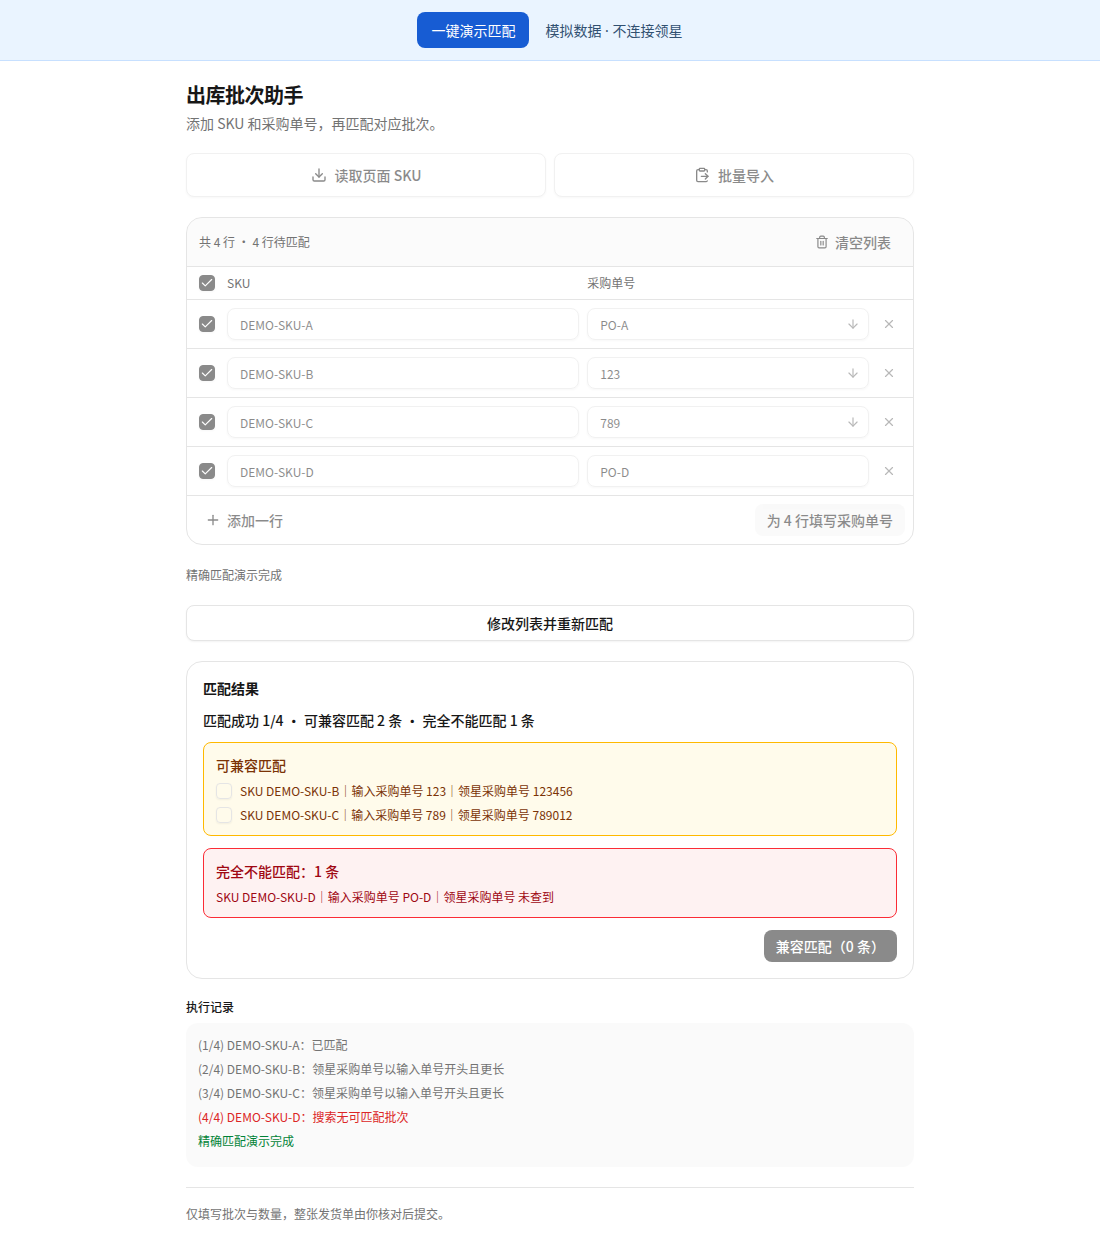
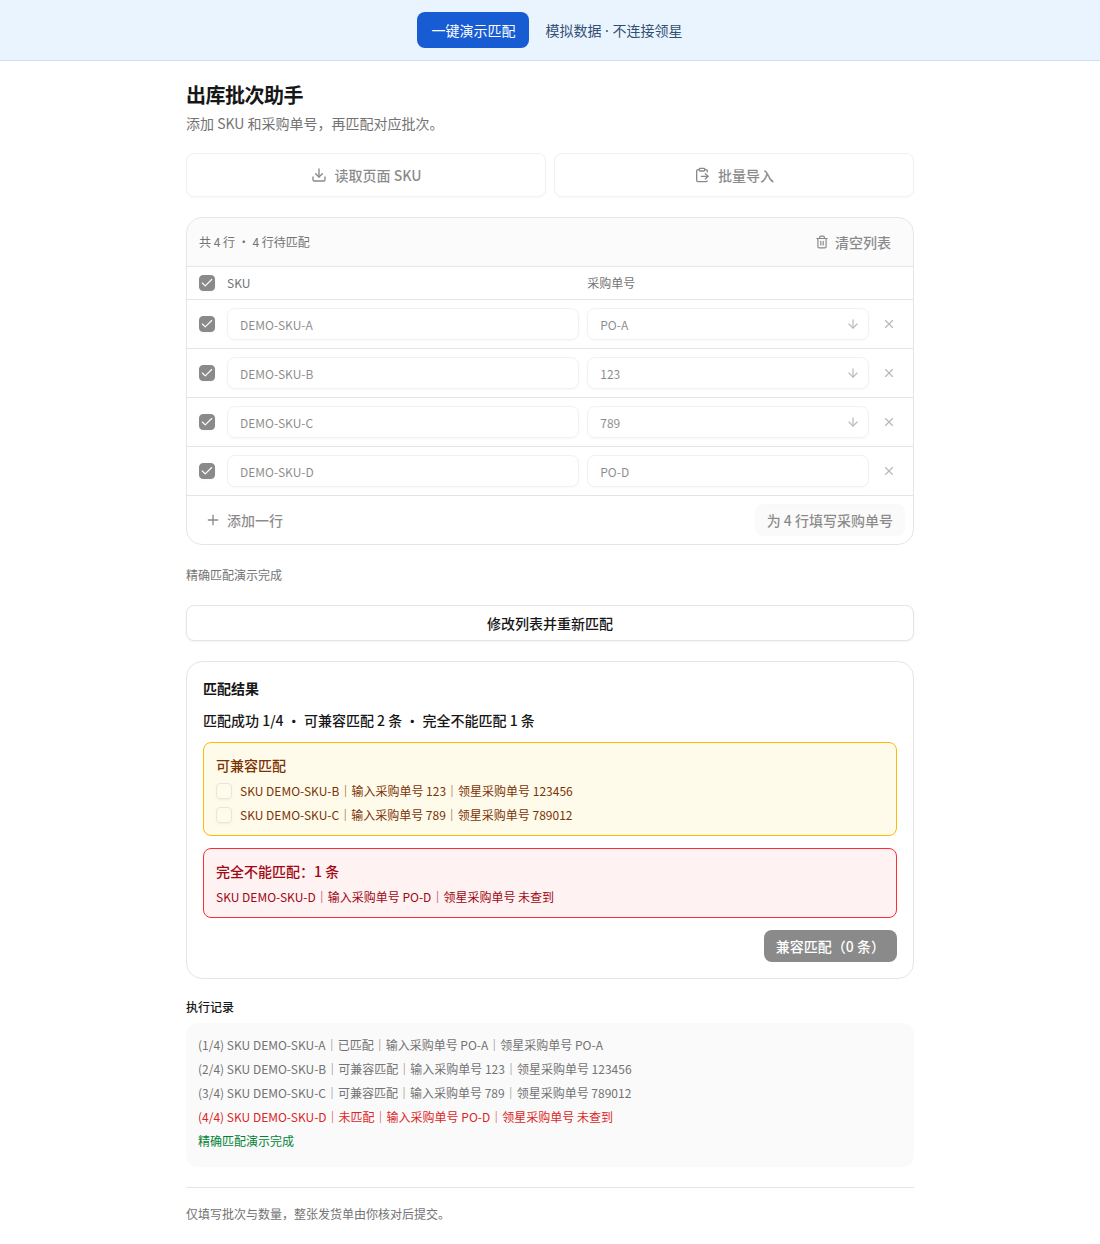
Keep matching progress concise

Changed region(s): [[0.1855, 0.8248, 0.5873, 0.9164]]

diff --git a/content.js b/content.js
@@ -186,7 +186,7 @@
 
   function skipPair({ sku, purchaseOrder }, number, total, reason, actualOrders = [], compatible = false) {
     const status = compatible ? 'compatible' : 'unmatched';
-    send(`(${number}/${total}) ${compatible ? '待兼容匹配' : '未匹配'}：${sku}，输入采购单号 ${purchaseOrder}，页面采购单号 ${actualOrders.join('、') || '未查到'}，${reason}`,
+    send(`(${number}/${total}) SKU ${sku}｜${compatible ? '可兼容匹配' : '未匹配'}｜输入采购单号 ${purchaseOrder}｜领星采购单号 ${actualOrders.join('、') || '未查到'}`,
       compatible ? 'info' : 'error', false, { status, sku, purchaseOrder, actualOrders, reason });
     return { status, sku, purchaseOrder, actualOrders, reason };
   }
@@ -296,17 +296,11 @@
     const unmatchedRows = results.filter(item => item.status === 'unmatched');
     if (failure && index < pairs.length) results.push({ status: 'failed', ...pairs[index], reason: failure.message });
     if (failure) for (const pair of pairs.slice(index + 1)) results.push({ status: 'unprocessed', ...pair, reason: '本轮未处理' });
-    send(`匹配报告：已匹配 ${completed.length} 条，可兼容匹配 ${compatibleRows.length} 条，无法匹配 ${unmatchedRows.length} 条${failure ? '；已暂停' : ''}`);
-    for (const item of results) {
-      if (item.status === 'completed') continue;
-      send(`SKU ${item.sku}｜${item.status === 'compatible' ? '可兼容匹配' : '未匹配'}｜输入采购单号 ${item.purchaseOrder} → 页面采购单号 ${item.actualOrders?.join('、') || '未查到'}｜${item.reason}`,
-        item.status === 'compatible' ? 'info' : 'error');
-    }
     if (failure) {
-      send(`已暂停：${failure.message}。请核对以上匹配报告`, 'error', true,
+      send(`已暂停：${failure.message}`, 'error', true,
         { report: { phase: mode, results, failure: failure.message } });
     } else {
-      send(`本轮结束：已匹配 ${completed.length} 条，可兼容匹配 ${compatibleRows.length} 条，无法匹配 ${unmatchedRows.length} 条${mode === 'exact' && compatibleRows.length ? '；可在报告中点击兼容匹配' : ''}`, 'success', true,
+      send(`本轮结束：已匹配 ${completed.length} 条，可兼容匹配 ${compatibleRows.length} 条，无法匹配 ${unmatchedRows.length} 条`, 'success', true,
         { report: { phase: mode, results, failure: null } });
     }
   }

diff --git a/demo.html b/demo.html
@@ -33,7 +33,10 @@
                 return { ...pair, status: 'compatible', actualOrders: [pair.sku === 'DEMO-SKU-B' ? '123456' : '789012'], reason: '领星采购单号以输入单号开头且更长' };
               return { ...pair, status: 'unmatched', actualOrders: [], reason: '搜索无可匹配批次' };
             });
-            results.forEach((result, index) => announce({ message: `(${index + 1}/${results.length}) ${result.sku}：${result.status === 'completed' ? '已匹配' : result.reason}`, level: result.status === 'unmatched' ? 'error' : 'info' }));
+            results.forEach((result, index) => announce({
+              message: `(${index + 1}/${results.length}) SKU ${result.sku}｜${result.status === 'completed' ? '已匹配' : result.status === 'compatible' ? '可兼容匹配' : '未匹配'}｜输入采购单号 ${result.purchaseOrder}｜领星采购单号 ${result.actualOrder || result.actualOrders?.join('、') || '未查到'}`,
+              level: result.status === 'unmatched' ? 'error' : 'info',
+            }));
             announce({ message: `${mode === 'compatible' ? '兼容' : '精确'}匹配演示完成`, level: 'success', done: true, report: { phase: mode, results, failure: null } });
           }, 700);
           return { accepted: true };
